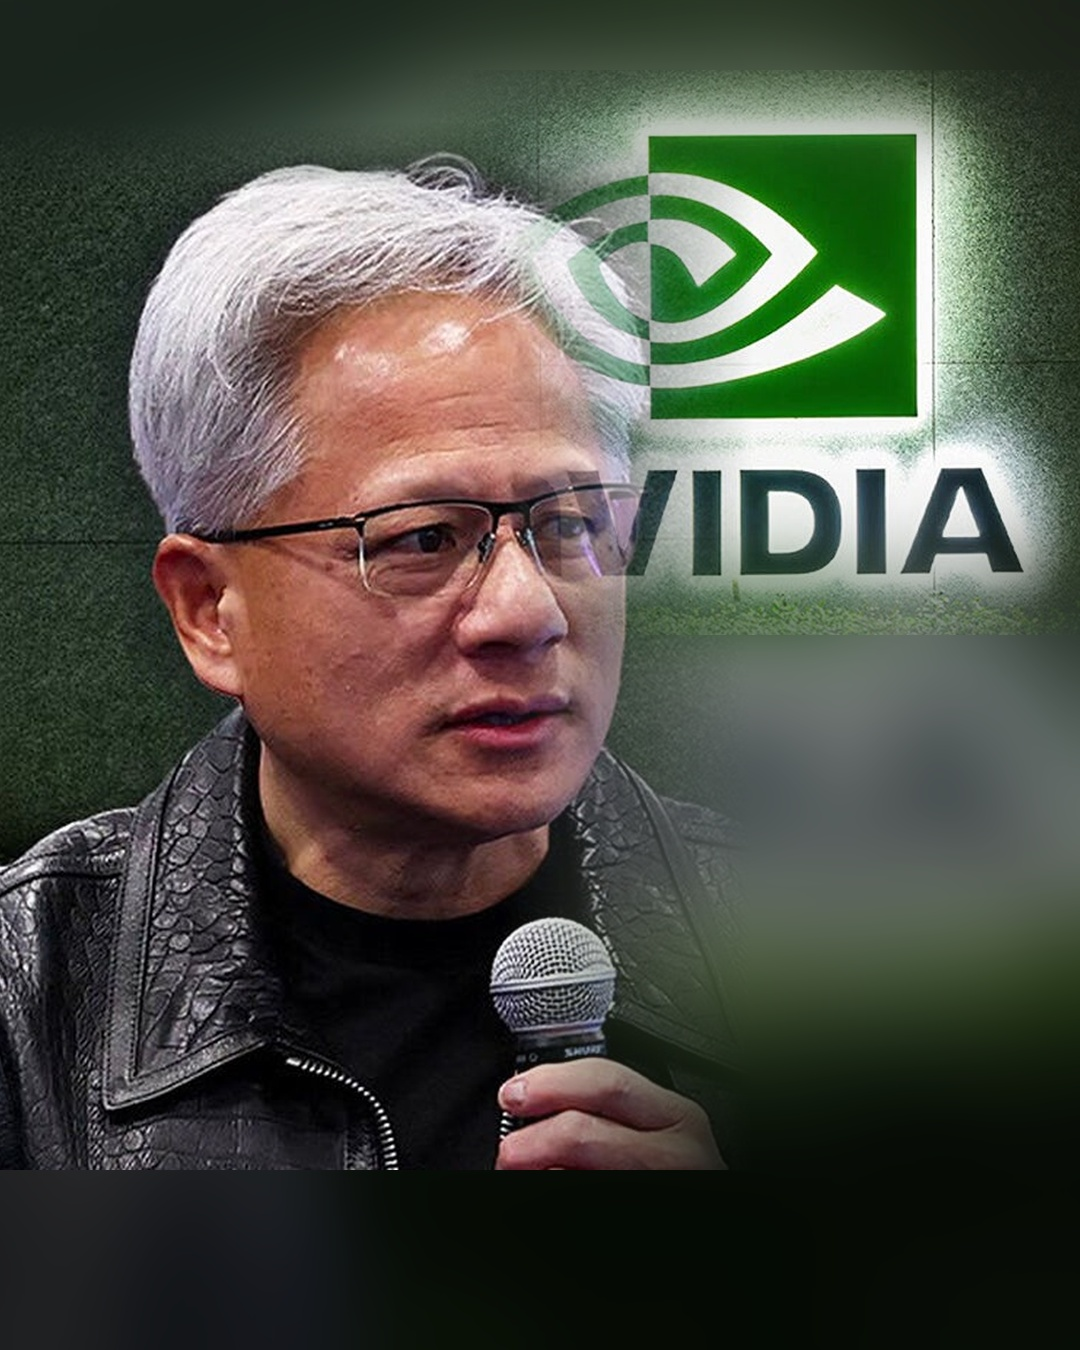
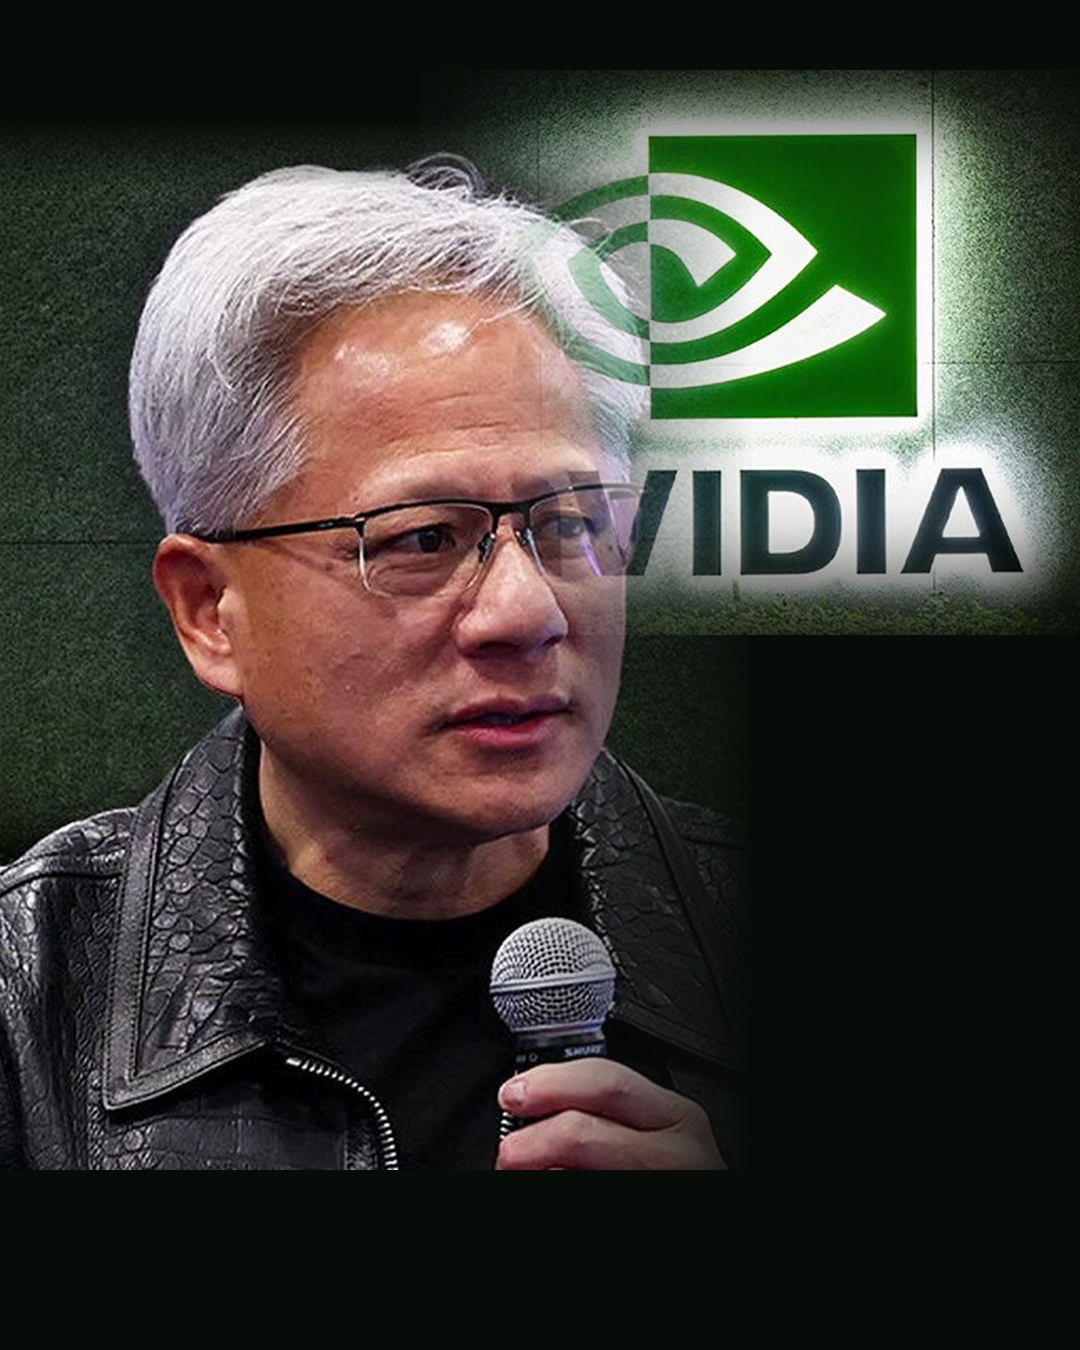
jhreturn 표지: 흐린 바탕 대신 단색
Claude-Session: https://claude.ai/code/session_01FGsw5QnWxFUsnopcB1Czie

Changed region(s): [[0.5194, 0.4044, 1.0, 0.8089], [0.0, 0.0, 0.9778, 0.1556], [0.0, 0.84, 0.275, 1.0]]

diff --git a/media/20261117-jhreturn/build_cards.py b/media/20261117-jhreturn/build_cards.py
@@ -23,7 +23,7 @@ sp = O / "specs.json"; sp.write_text(json.dumps(specs, ensure_ascii=False))
 subprocess.run([sys.executable, str(R / "scripts/post_cap_card.py"), str(sp)], check=True)
 # 표지(사용자): 화면 꽉 차게 + 로고를 젠슨 황 뒤로. 오른쪽 로고 부분을 배경으로 크게 깔고, 왼쪽 젠슨 황 부분을 앞에 겹쳐 페이드
 src = Image.open(O / "chip.jpg").convert("RGB")  # 1280x720
-bgl = ImageOps.fit(src.crop((560, 0, 1280, 720)), (W, H), Image.LANCZOS).filter(ImageFilter.GaussianBlur(45)); bgl = Image.blend(bgl, Image.new("RGB", (W, H), (6, 10, 6)), .45)  # 초록 벽 흐린 바탕
+bgl = Image.new("RGB", (W, H), (8, 12, 8))  # 바탕은 단색(흐린 사진 바탕이 모자이크처럼 보여 교체)
 logo = src.crop((660, 30, 1250, 520)); LW = 680; logo = logo.resize((LW, round(logo.height * LW / logo.width)), Image.LANCZOS)
 lm = Image.new("L", logo.size, 0); ImageDraw.Draw(lm).rounded_rectangle((50, 40, logo.width - 20, logo.height - 50), 80, fill=255); lm = lm.filter(ImageFilter.GaussianBlur(45))
 bgl.paste(logo, (W - LW + 20, 70), lm)
